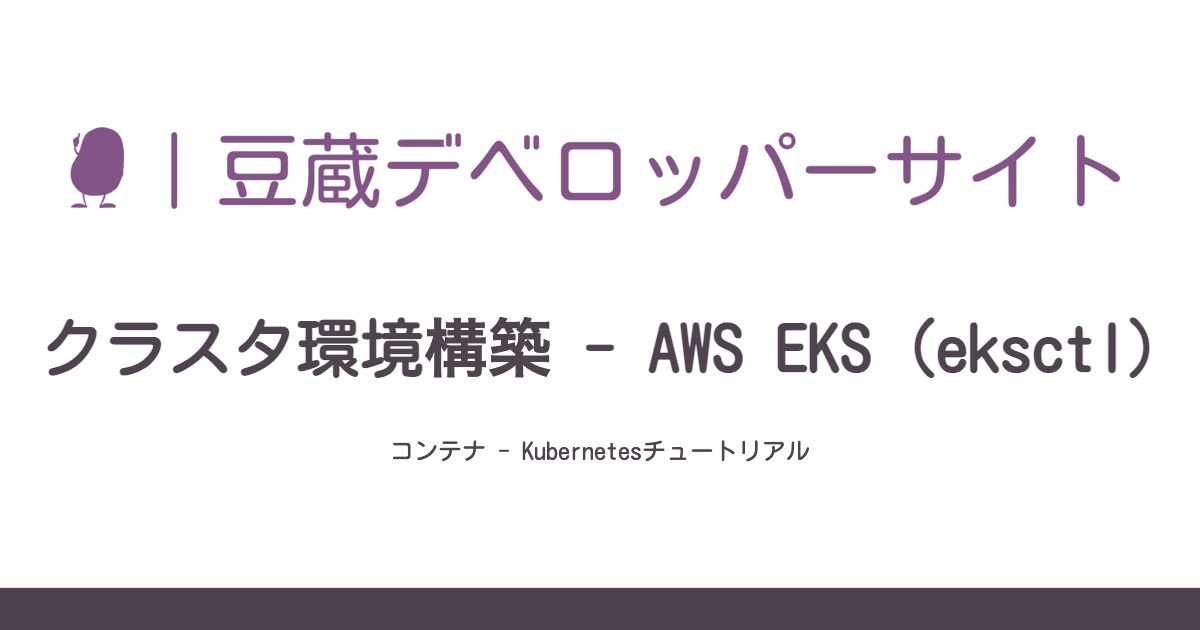
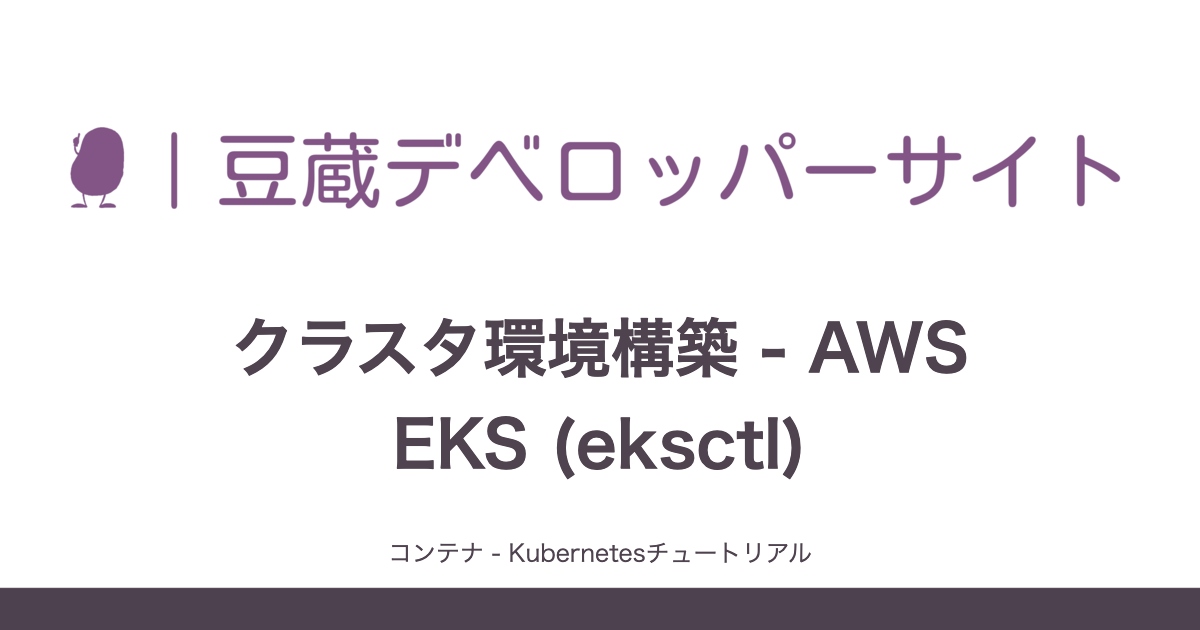
Add Jest Snapshot testing page (#210)
* Add jest snapshot testing

* Add OGP images for social media

* Update

Changed region(s): [[0.0308, 0.4825, 0.9558, 0.6032], [0.3083, 0.6635, 0.6783, 0.754], [0.3392, 0.8444, 0.6783, 0.9048]]

diff --git a/11ty/contributor-articles.js b/11ty/contributor-articles.js
@@ -1,5 +1,22 @@
 const contributors = require("../src/_data/contributors");
 const {getPosts} = require("./utils")
+
+function log(authorArticles) {
+  Object.values(authorArticles).forEach(v => {
+    const result = v.articles.reduce((acc, cur) => {
+      const ym = cur.date.getFullYear() + "-" + (cur.date.getMonth() + 1)
+      const found = acc.findIndex(a => a.ym === ym);
+      if (found >= 0) {
+        acc[found].count++;
+      } else {
+        acc.push({ym, count: 1});
+      }
+      return acc;
+    }, []);
+    console.log(v.name, result);
+  });
+}
+
 module.exports = (collection) => {
   const authorArticles = {};
   Object.keys(contributors).forEach(name => {
@@ -14,6 +31,7 @@ module.exports = (collection) => {
       authorArticles[article.data.author].articles.push(article);
     }
   });
+  // log(authorArticles);
   // pagination
   const chunkSize = 10;
   return Object.keys(authorArticles).reduce((state, name) => {

diff --git a/src/posts/jest/jest-snapshot-testing.md b/src/posts/jest/jest-snapshot-testing.md
@@ -1,0 +1,222 @@
+---
+title: Jest再入門 - スナップショットテスト編
+author: noboru-kudo
+date: 2022-06-30
+templateEngineOverride: md
+prevPage: ./src/posts/jest/jest-matchers.md
+---
+
+スナップショットテストはJestオリジナルの機能です。
+公式ドキュメントによると以下の説明があります。
+
+> Snapshot tests are a very useful tool whenever you want to make sure your UI does not change unexpectedly.
+> A typical snapshot test case renders a UI component, takes a snapshot, then compares it to a reference snapshot file stored alongside the test. The test will fail if the two snapshots do not match: either the change is unexpected, or the reference snapshot needs to be updated to the new version of the UI component.
+
+引用元: [Jestドキュメント - Snapshot Testing](https://jestjs.io/docs/snapshot-testing)
+
+スナップショットテストは、ReactやVue等のコンポーネントで生成するUIが、前回実行時と変わっていないかをチェックします。
+UIは機能追加や改善等で変更頻度が高い領域です。しかし、デザイン等を含めた全要素を単体テストで網羅するのはコストメリットに見合わないというのが実情です。
+このようなケースで、以前の出力結果と全比較するスナップショットテストは効果を発揮します。
+もちろん、実装変更によって出力結果は変わっていきますので、スナップショットテストの失敗は必ずしも実装バグにはつながりません。
+差分を人間の目でチェックし、問題がない場合はスナップショットを更新していく必要があります。
+
+スナップショットテストのスコープはUIコンポーネントに限りません。比較できるものであれば基本的には何でも利用できます。
+とはいえ、スナップショットテストを乱用するとテスト観点がボヤけてカオスな状況になります。利用ケースは各システムの特性に合わせて限定するのが望ましいでしょう。
+
+ここでは、そんなスナップショットテストのやり方を見ていきます。
+
+[[TOC]]
+
+## 基本的な使い方
+
+スナップショットテストもJestが用意しているマッチャーの1つです。基本的なテストの記述方法は他のテストと変わりません。
+通常は各UIコンポーネント等で生成した結果を検査対象としますが、ここでは簡易的に固定のHTML文字列を対象とします。
+
+```typescript
+describe("Snapshot Testing", () => {
+  test("toMatchSnapshot - 基本", () => {
+    const html = `<div class="container">
+  <article>
+    <p>UI生成結果</p>
+  </article>
+</div>`;
+    expect(html).toMatchSnapshot();
+  });
+});
+```
+
+スナップショットテストはJestマッチャーとして提供されるtoMatchSnapshotを利用します。
+これを初めて実行すると、テストは成功します。これは前回のテスト実行結果がないためです。
+このとき、テストファイルが配置されている場所にスナップショットファイル(`__snapshots__/<テストファイル名>.snap`)が作成されます。
+上記テストの場合は、以下の内容になります。
+
+```
+exports[`Snapshot Testing toMatchSnapshot - 基本 1`] = `
+"<div class=\\"container\\">
+  <article>
+    <p>UI生成結果</p>
+  </article>
+</div>"
+`;
+```
+
+2回目以降の実行では、このスナップショットファイルと比較するようになります。
+
+意図的にテストを失敗させてみます。
+以下のようにpタグにclass属性`title`を追加します。
+
+```typescript
+    const html = `<div class="container">
+  <article>
+    <p class="title">UI生成結果</p>
+  </article>
+</div>`;
+```
+
+CLIでテストを実行すると、テストが失敗して以下のように出力されます。
+
+```shell
+  ● Snapshot Testing › toMatchSnapshot - 基本
+
+    expect(received).toMatchSnapshot()
+
+    Snapshot name: `Snapshot Testing toMatchSnapshot - 基本 1`
+
+    - Snapshot  - 1
+    + Received  + 1
+
+      <div class="container">
+        <article>
+    -     <p>UI生成結果</p>
+    +     <p class="title">UI生成結果</p>
+        </article>
+      </div>
+
+       8 |   </article>
+       9 | </div>`;
+    > 10 |     expect(html).toMatchSnapshot();
+         |                  ^
+      11 |   });
+
+ › 1 snapshot failed.
+```
+
+先程生成されたスナップショットと結果を比較して、pタグのclass属性で差分がでていることが分かります。
+今回はデグレではなく、これが正しい差分であるとします。
+この場合はスナップショットファイルを更新する必要があります。スナップショットファイルは手動更新もできますが、通常はJestの機能を使って更新します。
+
+```shell
+npx jest --test-match="**/snapshot.spec.ts" --update-snapshot
+```
+
+実行するとテストが成功し、スナップショットファイルが更新されます。次回以降も出力結果が変わらなければ、テストは成功するようになります。
+
+もちろん、スナップショットファイルはGit管理の対象とし、変更された場合はコードレビューを通して妥当なものであるかをチェックする必要があります。
+スナップショットの変更をチェックしなければ、スナップショットテストの意味は全くありません。
+
+:::info
+スナップショットファイルの更新は、VSCodeのJest Extension([vscode-jest](https://marketplace.visualstudio.com/items?itemName=Orta.vscode-jest))やIntellij IDEAでも用意されています。
+各種IDEではスナップショットファイルの該当箇所へのジャンプ等、便利な機能が用意されていますので、通常の開発では、CLIよりもこちらを利用することが多いと思います。
+:::
+
+## インラインスナップショット
+
+上記は、テスト実行時にスナップショットファイルを作成しましたが、インラインスナップショットを使ってテストコード内に埋め込むこともできます。
+インラインスナップショットを使う場合は、以下のように記述します。
+
+```typescript
+test("toMatchSnapshot - インライン", () => {
+  const html = `<div class="container">
+  <article>
+    <p>UI生成結果</p>
+  </article>
+</div>`;
+  expect(html).toMatchInlineSnapshot();
+});
+```
+
+インラインスナップショットの場合は、toMatchInlineSnapshotマッチャーを使います。
+この状態でテストを実行すると、Jestはテストコードを以下のように直接書き換えます。
+
+```typescript
+test("toMatchSnapshot - インライン", () => {
+  const html = `<div class="container">
+  <article>
+    <p>UI生成結果</p>
+  </article>
+</div>`;
+  expect(html).toMatchInlineSnapshot(`
+      "<div class=\\"container\\">
+        <article>
+          <p>UI生成結果</p>
+        </article>
+      </div>"
+    `);
+});
+```
+
+toMatchInlineSnapshotの引数にスナップショットが埋め込まれました。
+スナップショットの更新は、先程と同様ですが、スナップショットファイルではなく、直接テストコードが書き換えられます。
+
+検査対象が小さい場合は、こちらを利用するのが簡単でしょう。
+
+## プロパティマッチャー
+
+タイムスタンプやID等の自動生成系のもの等、実行の都度値が変わるものが含まれる場合には、そのままではスナップショットテストは使えません。
+一般的には、このような場合はモックを使用して、その値を固定化する必要があります。
+検査対象がオブジェクト等のキーバリュー形式であれば、モック化せずともJestのプロパティマッチャーが利用できます。
+
+ここでは、JavaScriptのオブジェクトをスナップショットテストしています。
+その中にはランダム値(UUID)やタイムスタンプが含まれるものとします。
+プロパティマッチャーは以下のように記述します。
+
+```typescript
+test("toMatchSnapshot - Property Matchers", () => {
+  const obj = {
+    id: uuidv4(),
+    created: new Date().getTime(),
+    type: "Jest",
+  };
+  expect(obj).toMatchSnapshot({
+    id: expect.stringMatching(
+      /^[\da-f]{8}-[\da-f]{4}-[\da-f]{4}-[\da-f]{4}-[\da-f]{12}$/
+    ),
+    created: expect.any(Number),
+  });
+});
+```
+
+toMatchSnapshotの引数で利用されているのがプロパティマッチャーです。
+ここで、等価条件以外で比較したいものを記述します。上記ではランダム値のIDは正規表現でUUIDフォーマットであるか、タイムスタンプはNumber型であることを検査するように記述しています。
+なお、ここで記述していないもの以外(上記だと`type`フィールド)は、等価条件で比較されます。
+
+この場合のスナップショットファイルは、以下のようになります。
+
+```
+exports[`Snapshot Testing toMatchSnapshot - Property Matchers 1`] = `
+Object {
+  "created": Any<Number>,
+  "id": StringMatching /\\^\\[\\\\da-f\\]\\{8\\}-\\[\\\\da-f\\]\\{4\\}-\\[\\\\da-f\\]\\{4\\}-\\[\\\\da-f\\]\\{4\\}-\\[\\\\da-f\\]\\{12\\}\\$/,
+  "type": "Jest",
+}
+`;
+```
+
+等価条件以外の部分が、プロパティマッチャーに置き換えられていることが分かります。
+
+利用シーンは限定されますが、APIレスポンスや[React Test Renderer](https://reactjs.org/docs/test-renderer.html)等、検査対象をJSON形式に変換可能である場合に力を発揮します。
+
+---
+
+次回はモック編に続きます。
+
+---
+関連記事
+
+- [Jest再入門 - 導入編](/testing/jest/jest-intro/)
+- [Jest再入門 - マッチャー編](/testing/jest/jest-matchers/)
+
+---
+参照資料
+
+- [Jest公式ドキュメント](https://jestjs.io/docs/getting-started)

diff --git a/src/posts/jest/jest-matchers.md b/src/posts/jest/jest-matchers.md
@@ -4,6 +4,7 @@ author: noboru-kudo
 date: 2022-06-26
 templateEngineOverride: md
 prevPage: ./src/posts/jest/jest-intro.md
+nextPage: ./src/posts/jest/jest-snapshot-testing.md
 ---
 
 Jestはオールインワンのテストフレームワークです。
@@ -234,8 +235,13 @@ test("message以外を検査", () => {
 
 ---
 
-これ以外にも、モックやスナップショットテストに関するマッチャーも用意されています。
-これらは、それぞれの記事(モック編、スナップショットテスト編)に掲載予定です。
+次回は[スナップショットテスト編](/testing/jest/jest-snapshot-testing/)に続きます。
+
+---
+関連記事
+
+- [Jest再入門 - 導入編](/testing/jest/jest-intro/)
+- [Jest再入門 - スナップショットテスト編](/testing/jest/jest-snapshot-testing/)
 
 ---
 参照資料

diff --git a/src/pages/testing.md b/src/pages/testing.md
@@ -28,7 +28,7 @@ description: ソフトウェアテストに関する技法やテクニック
 ### Jest再入門シリーズ
 - [導入編](/testing/jest/jest-intro/)
 - [マッチャー編](/testing/jest/jest-matchers/)
-- スナップショットテスト編 <span style="color: red">Coming Soon!</span>
+- [スナップショットテスト編](/testing/jest/jest-snapshot-testing/)
 - モック編 <span style="color: red">Coming Soon!</span>
 - カスタムマッチャー編 <span style="color: red">Coming Soon!</span>
 - 非同期編 <span style="color: red">Coming Soon!</span>

diff --git a/src/posts/jest/jest-intro.md b/src/posts/jest/jest-intro.md
@@ -427,9 +427,13 @@ npx jest --reporters=default --reporters=jest-html-reporters
 
 ---
 
-次はマッチャー編に続きます。
+次回は[マッチャー編](/testing/jest/jest-matchers/)に続きます。
+
+---
+関連記事
 
 - [Jest再入門 - マッチャー編](/testing/jest/jest-matchers/)
+- [Jest再入門 - スナップショットテスト編](/testing/jest/jest-snapshot-testing/)
 
 ---
 参照資料
